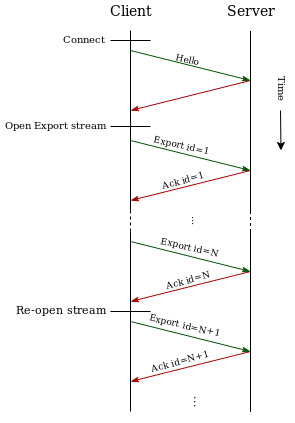
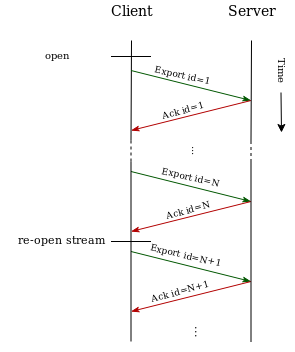
Remove Hello handshake

diff --git a/text/0000-opentelemetry-protocol.md b/text/0000-opentelemetry-protocol.md
@@ -10,7 +10,6 @@ OpenTelemetry Protocol (OTLP) specification describes the encoding, transport an
 
 - [Motivation](#motivation)
 - [Protocol Details](#protocol-details)
-  - [Hello Handshake](#hello-handshake)
   - [Export Request and Response](#export-request-and-response)
   - [Client Modes](#client-modes)
   - [Server Response](#server-response)
@@ -46,19 +45,11 @@ OTLP defines the encoding of telemetry data and the protocol used to exchange da
 
 This specification defines how OTLP is implemented over [gRPC](https://grpc.io/) and specifies corresponding [Protocol Buffers](https://developers.google.com/protocol-buffers/docs/overview) schema. Future extensions to OTLP may define implementations over other transports. For details of gRPC service definition see section [gRPC Transport](#grpc-transport).
 
-OTLP is a request/response style protocols: the clients send requests, the server replies with corresponding responses. There are 2 supported requests and response types: `Hello` and `Export`.
-
-### Hello Handshake
-
-The message exchange between the client and server SHOULD start by the client initiating the underlying transport and sending `Hello` request. The server replies with `Hello` response. `Hello` request and response have no payload in this version of OTLP. They are intended to be extended in the future with a payload that describes client's and server's extended capabilities when such new capabilities are added to the protocol. The initial exchange of `Hello` messages is a handshake that allows client and server to discover each other's capabilities in a backwards compatible manner (see more about how future versions of the protocol will ensure interoperability in a separate section below).
-
-The client MAY choose to avoid sending `Hello` request and proceed to sending `Export` requests immediately after the transport is established (see the next section for `Export` description). From the server's perspective this behavior should be equivalent to a successful exchange of  `Hello` request and response with empty payloads.
-
-The server MUST always reply with a corresponding `Hello` response to every `Hello` request.
+OTLP is a request/response style protocols: the clients send requests, the server replies with corresponding responses. This document defines one requests and response type: `Export`.
 
 ### Export Request and Response
 
-After `Hello` request and response the client starts sending telemetry data using `Export` requests.  The client continuously sends a sequence of `Export` requests to the server and expects to receive a response to each request:
+After establishing the underlying transport the client starts sending telemetry data using `Export` requests.  The client continuously sends a sequence of `Export` requests to the server and expects to receive a response to each request:
 
 ![Request-Response](images/otlp-request-response.png)
 
@@ -96,7 +87,9 @@ In Pipelined mode the client may send multiple `Export` requests without waiting
 
 The number of unacknowledged requests for which the client did not receive responses yet is defined by the window size of underlying transport (for gRPC see details about [how the window size is calculated](https://grpc.io/blog/2017-08-22-grpc-go-perf-improvements/)).
 
-If the client detects that the underlying transport is broken and must be re-established the client MUST retry sending all requests that are still pending acknowledgement after re-establishing the transport. If the client is shutting down (e.g. when the containing process wants to exit) the client MUST wait until all pending acknowledgements are received or until an implementation specific timeout expires. This ensures reliable delivery of telemetry data.
+If the client detects that the underlying transport is broken and must be re-established the client will optionally retry sending all requests that are still pending acknowledgement after re-establishing the transport. The client implementation SHOULD expose an option to turn on and off the retrying.
+
+If the client is shutting down (e.g. when the containing process wants to exit) the client will optionally wait until all pending acknowledgements are received or until an implementation specific timeout expires. This ensures reliable delivery of telemetry data. The client implementation SHOULD expose an option to turn on and off the waiting during shutdown.
 
 If the client is unable to deliver a certain request (e.g. it retried but failed multiple times or shutdown timer expired while waiting for acknowledgements) the client SHOULD record the fact that the data was not delivered.
 
@@ -112,7 +105,7 @@ The Server replies to every `Export` request received from the client by a corre
 
 `Export` response includes a `result_code` field, which indicates whether the server was able to successfully process the received data. Possible values for `result_code` field are:
 
-- `Success` - telemetry data is successfully processed by the server.
+- `Success` - telemetry data is successfully processed by the server. If the server receives an empty request (a request that does not carry any telemetry data) the server SHOULD respond with `Success`.
 
 - `FailedNoneRetryable` - processing of telemetry data failed. The client MUST NOT retry sending the same telemetry data. The telemetry data MUST be dropped. This for example can happen when the request contains bad data and cannot be deserialized or otherwise processed by the server. The client SHOULD maintain a counter of such dropped data.
 
@@ -132,23 +125,18 @@ This field is used by the server to signal backpressure to the client. The value
 
 #### Service Definition
 
-`Hello` request and response is done via a unary gRPC call.
-
 `Export` requests and responses are delivered using bidirectional gRPC streams.
 
 This is OTLP over gRPC Service definition:
 
 ```
 service StreamExporter {
-  // Hello handshake.
-  rpc Hello(HelloRequest) returns (HelloResponse) {}
-
   // Sends a batch of telemetry data.
   rpc Export(stream ExportRequest) returns (stream ExportResponse) {}
 }
 ```
 
-Appendix A contains Protocol Buffer definitions for `HelloRequest`, `HelloResponse`, `ExportRequest` and `ExportResponse`.
+Appendix A contains Protocol Buffer definitions for `ExportRequest` and `ExportResponse`.
 
 #### Load Balancing
 
@@ -226,7 +214,7 @@ OTLP does not use explicit protocol version numbering. OTLP's interoperability o
 
 2. For minor changes to the protocol future versions and extension of OTLP are encouraged to use the ability of Protocol Buffers to evolve message schema in backwards compatible manner. Newer versions of OTLP may add new fields to messages that will be ignored by clients and servers that do not understand these fields. In many cases careful design of such schema changes and correct choice of default values for new fields is enough to ensure interoperability of different versions without nodes explicitly detecting that their peer node has different capabilities.
 
-3. More significant changes must be explicitly defined as new optional capabilities. Such capabilities SHOULD be discovered by client and server implementations during `Hello` handshake. The capabilities SHOULD be described by the payload contained in `Hello` request and response. The mandatory capabilities defined by this specification are implied and SHOULD not be explicitly encoded in the `Hello` payload. A future implementation of OTLP that wants to use a certain optional capability SHOULD use `Hello` handshake to announce its capabilities and discover capabilities of the peer and adjust its behavior to match the expectation of a peer that does not support a particular capability.
+3. More significant changes must be explicitly defined as new optional capabilities in future RFCs. Such capabilities SHOULD be discovered by client and server implementations after establishing the underlying transport. The exact discovery mechanism SHOULD be described in future RFCs which define the new capabilities and typically can be implemented by making a discovery request/response message exchange from the client to server. The mandatory capabilities defined by this specification are implied and do not require a discovery. The implementation which supports a new, optional capability MUST adjust its behavior to match the expectation of a peer that does not support a particular capability.
 
 The current version of OTLP is the initial version that describes mandatory capabilities only. Implementations of this specification SHOULD NOT attempt to detect the capabilities of their peers and should operate as defined in this document.
 
@@ -253,16 +241,6 @@ Another goal for telemetry protocol is achieving high compression ratios for tel
 This is Protocol Buffers schema for `Export` request and response:
 
 ```
-// Hello is the first request from client to server.
-message HelloRequest {
-    // Empty in initial version of OTLP.
-}
-
-// Response to Hello request.
-message HelloResponse {
-    // Empty in initial version of OTLP.
-}
-
 // A request from client to server containing telemetry data to export.
 message ExportRequest {
   // Unique sequential ID generated by the client.
@@ -457,7 +435,7 @@ Both the Client and the Server are also a `Node`. This term is used in the docum
 
 ## Acknowledgements
 
-Special thanks to Owais Lone who helped to conduct experiments with Load Balancers and to Paulo Janotti for thoughtful discussions around the protocol.
+Special thanks to Owais Lone who helped to conduct experiments with Load Balancers, to Paulo Janotti, Bogdan Drutu and Yuri Shkuro for thoughtful discussions around the protocol.
 
 ## Author's Address
 
